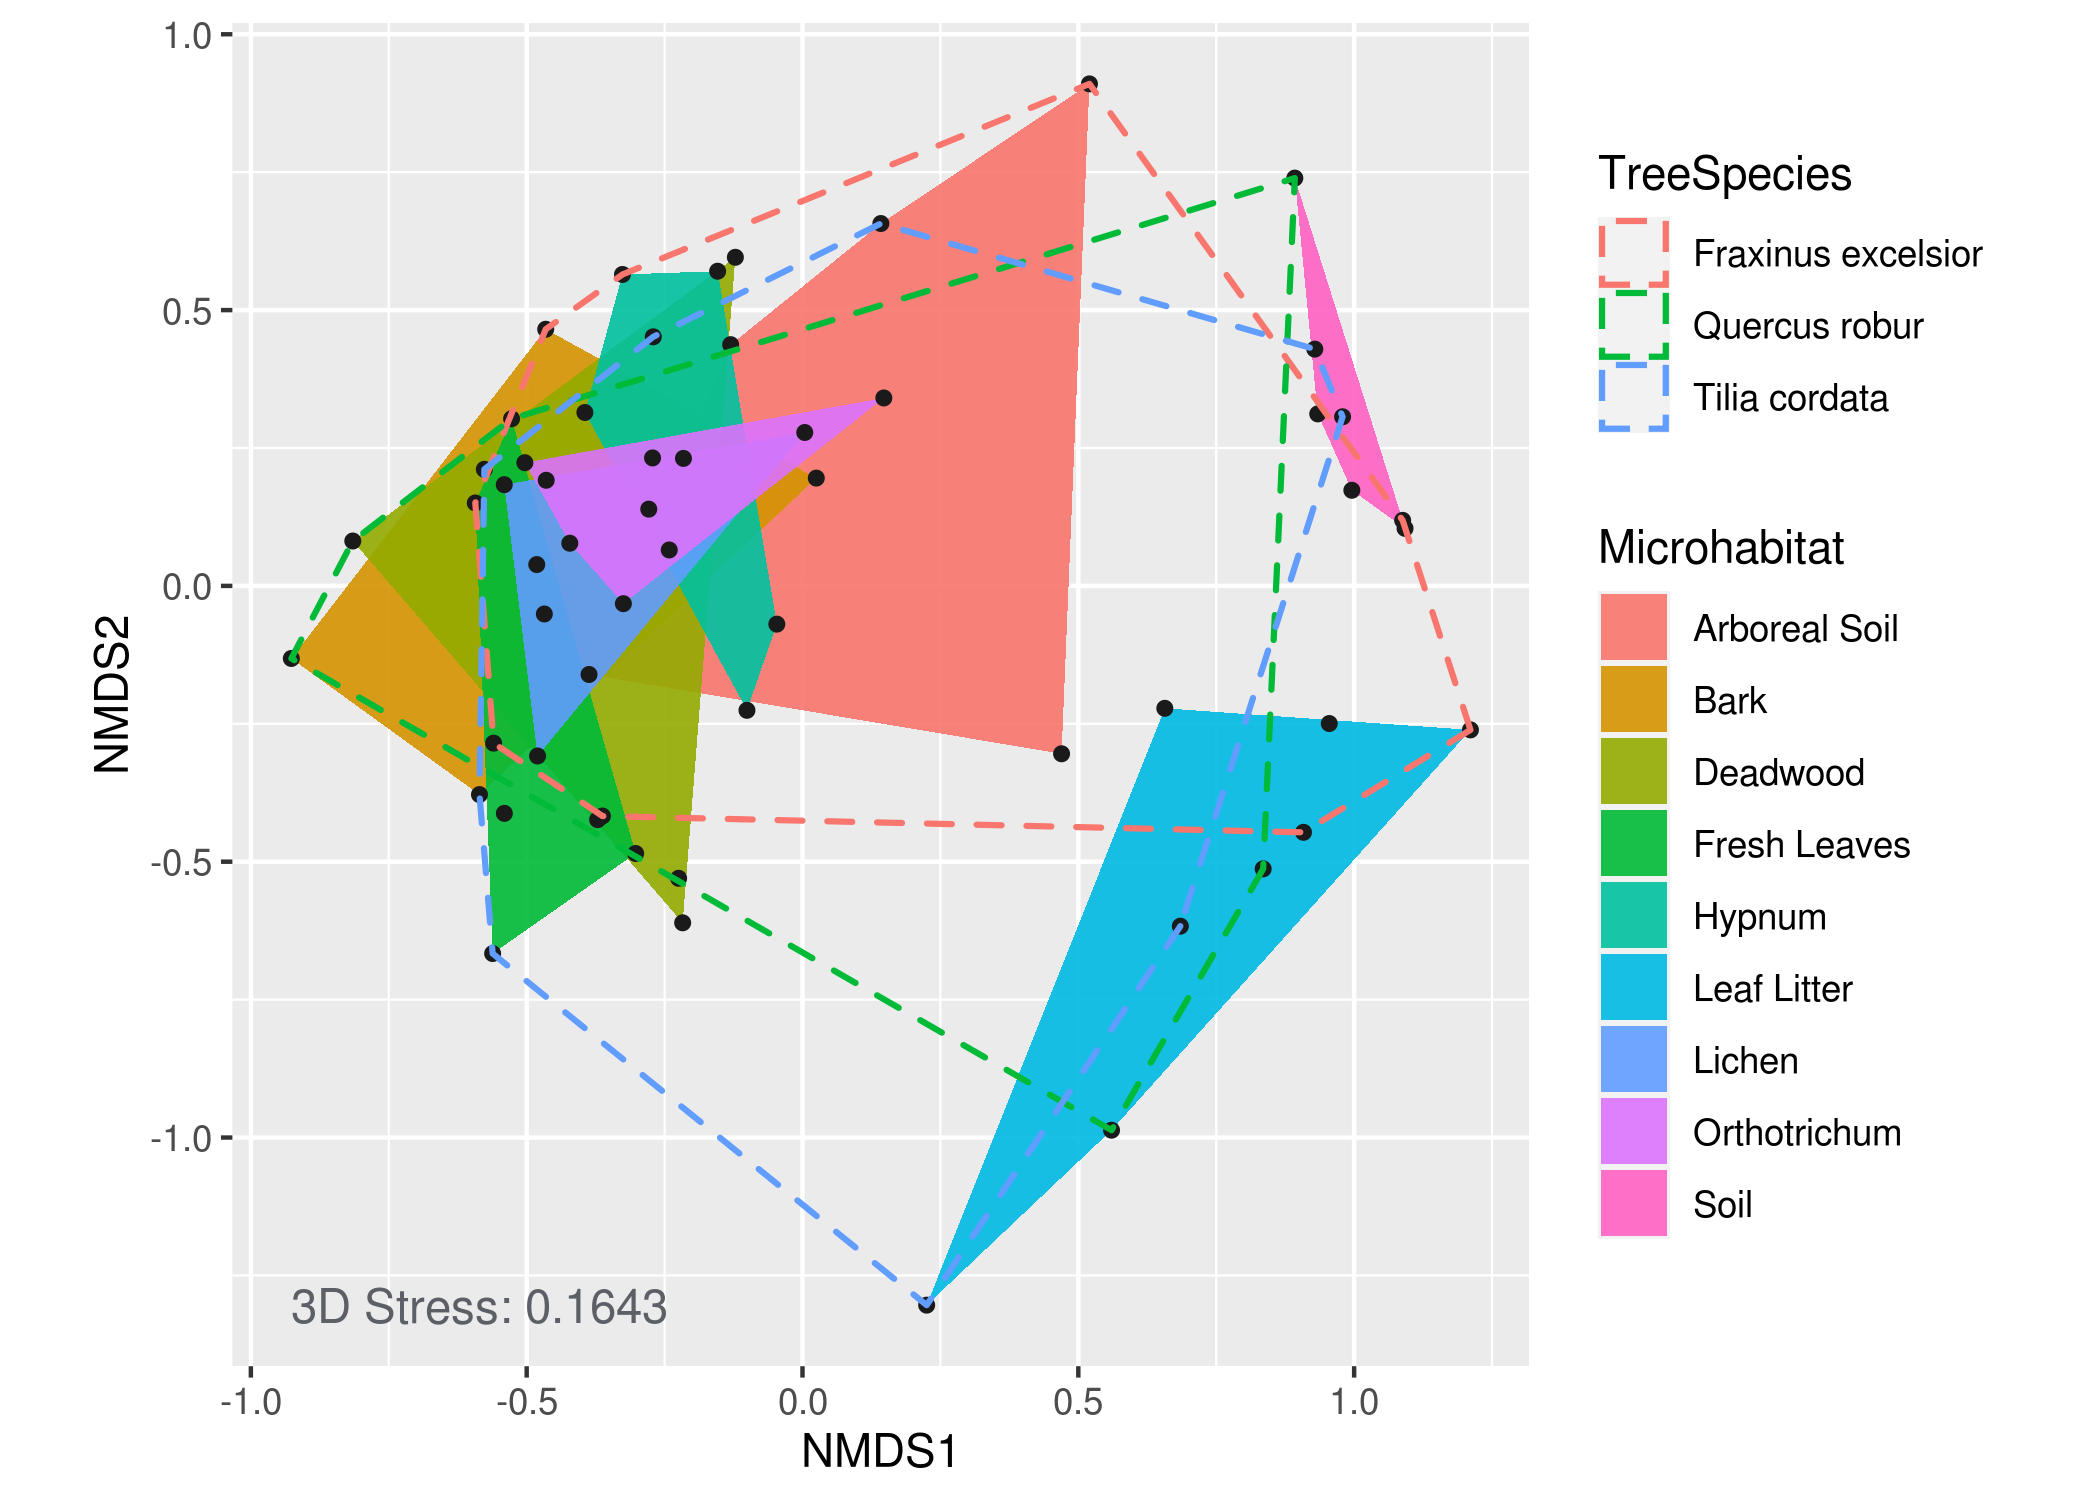
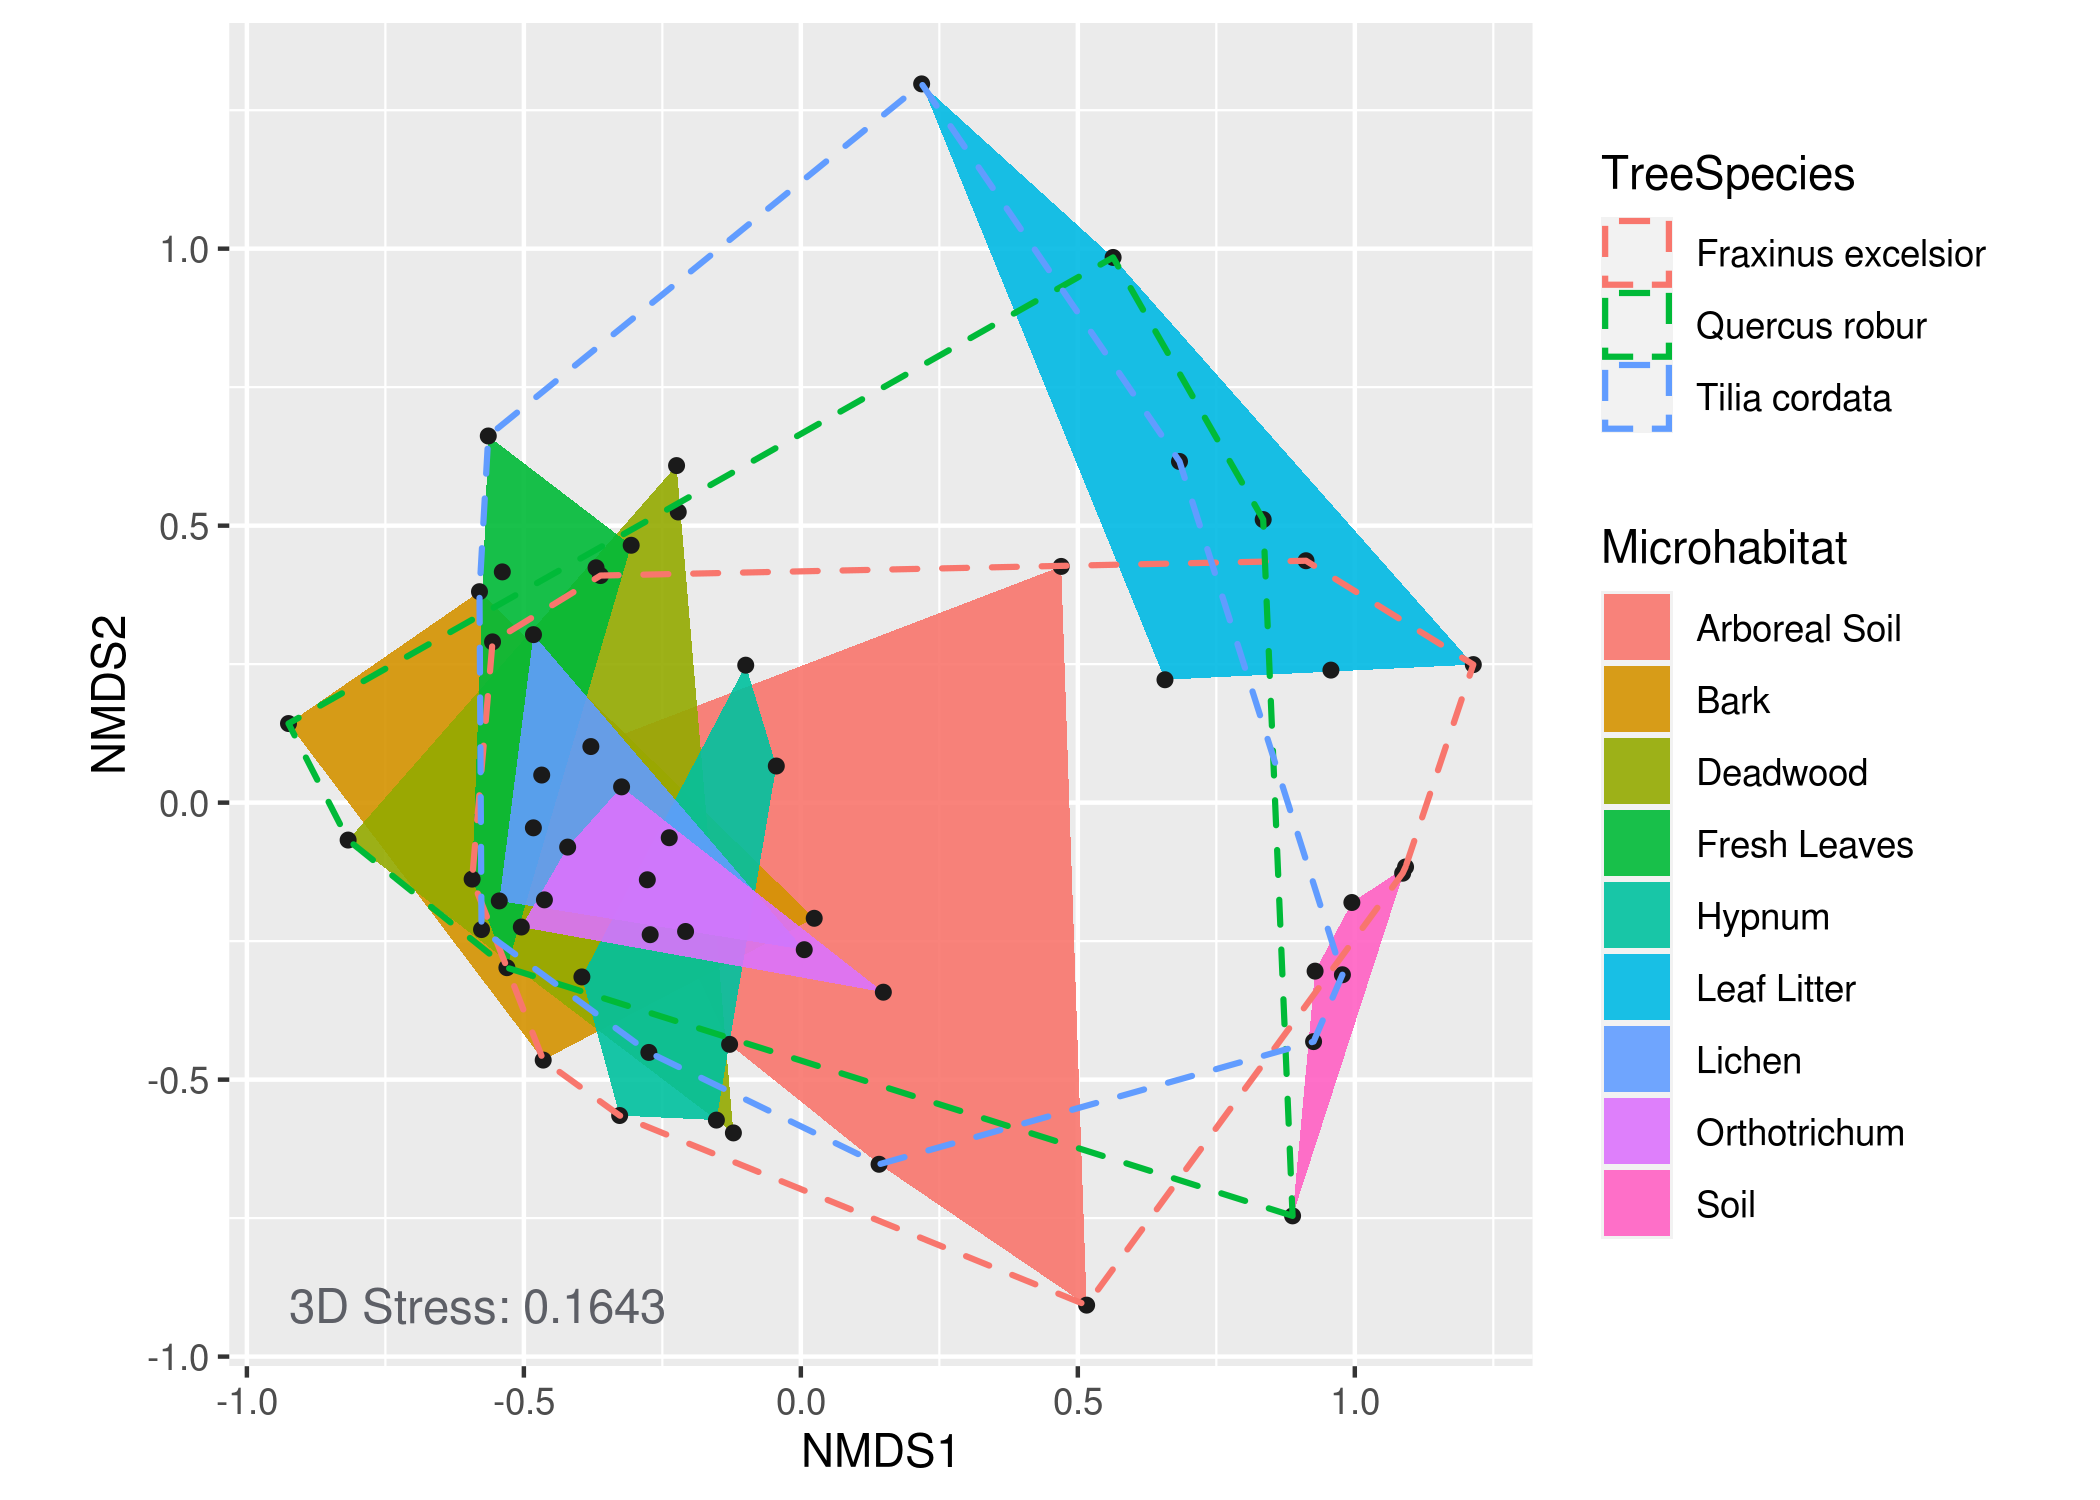
Updated Readme

diff --git a/Readme.md b/Readme.md
@@ -8,8 +8,7 @@ Multidimensional Scaling (NMDS) plots into `ggplot`.
 
 The package includes an example dataset from [Jauss et
 al. (2020)](%22https://www.frontiersin.org/articles/10.3389/fmicb.2020.592189/%22)
-- an OTU abundance table including sample metadata - and three
-functions:
+(an OTU abundance table including sample metadata) and three functions:
 
   - `get_NMDS_ordination`: The function takes the OTU table (with or
     without metadata) and performs the NMDS ordination. The resulting
@@ -39,132 +38,43 @@ look at the example data:
 library(otutableNMDS)
 data("OTU_Table")
 
-OTU_Table[1:10, 1:10]
+tibble::as_tibble(OTU_Table[1:10, 1:10])
 ```
 
-    ##      SampleID TreeID        TreeSpecies  Microhabitat Stratum
-    ## 1  K129_Bl_Fr   K129      Quercus robur  Fresh Leaves  Canopy
-    ## 2    K129_Bor   K129      Quercus robur          Bark  Canopy
-    ## 3    K129_Det   K129      Quercus robur Arboreal Soil  Canopy
-    ## 4    K129_Hyp   K129      Quercus robur        Hypnum  Canopy
-    ## 5   K129_Laub   K129      Quercus robur   Leaf Litter  Ground
-    ## 6    K129_Oth   K129      Quercus robur  Orthotrichum  Canopy
-    ## 7  K232_Bl_Fr   K232 Fraxinus excelsior  Fresh Leaves  Canopy
-    ## 8    K232_Bod   K232 Fraxinus excelsior          Soil  Ground
-    ## 9    K232_Bor   K232 Fraxinus excelsior          Bark  Canopy
-    ## 10   K232_Det   K232 Fraxinus excelsior Arboreal Soil  Canopy
-    ##    X1_Peronosporales.Peronosporaceae.Phytophthora.Phytophthora_syringae
-    ## 1                                                                     1
-    ## 2                                                                     0
-    ## 3                                                                   121
-    ## 4                                                                   382
-    ## 5                                                                 19129
-    ## 6                                                                   354
-    ## 7                                                                     0
-    ## 8                                                                 10264
-    ## 9                                                                    32
-    ## 10                                                                  348
-    ##    X2_Lagenidiales.Lagenidiales_Family_NoHit.Lagenidiales_Genus_NoHit.Lagenidiales_Species_NoHit
-    ## 1                                                                                              0
-    ## 2                                                                                              0
-    ## 3                                                                                             13
-    ## 4                                                                                              2
-    ## 5                                                                                             57
-    ## 6                                                                                              2
-    ## 7                                                                                             37
-    ## 8                                                                                              5
-    ## 9                                                                                             50
-    ## 10                                                                                             5
-    ##    X3_Peronosporales.Peronosporaceae.Hyaloperonospora.Hyaloperonospora_brassicae
-    ## 1                                                                          31210
-    ## 2                                                                            581
-    ## 3                                                                              1
-    ## 4                                                                            611
-    ## 5                                                                              2
-    ## 6                                                                            950
-    ## 7                                                                           2239
-    ## 8                                                                              9
-    ## 9                                                                            822
-    ## 10                                                                            27
-    ##    X4_Pythiales.Pythiaceae.Pythiaceae_Genus_NoHit.Pythiaceae_Species_NoHit
-    ## 1                                                                       12
-    ## 2                                                                       18
-    ## 3                                                                        0
-    ## 4                                                                        0
-    ## 5                                                                        0
-    ## 6                                                                        1
-    ## 7                                                                        5
-    ## 8                                                                       10
-    ## 9                                                                     5245
-    ## 10                                                                      55
-    ##    X5_Peronosporales.Peronosporaceae.Peronospora.Peronospora_arborescens
-    ## 1                                                                   2449
-    ## 2                                                                     31
-    ## 3                                                                      8
-    ## 4                                                                      3
-    ## 5                                                                     19
-    ## 6                                                                      1
-    ## 7                                                                   3007
-    ## 8                                                                      5
-    ## 9                                                                      3
-    ## 10                                                                     0
+    ## # A tibble: 10 x 10
+    ##    SampleID TreeID TreeSpecies Microhabitat Stratum X1_Peronosporal…
+    ##    <fct>    <fct>  <fct>       <fct>        <fct>              <dbl>
+    ##  1 K129_Bl… K129   Quercus ro… Fresh Leaves Canopy                 1
+    ##  2 K129_Bor K129   Quercus ro… Bark         Canopy                 0
+    ##  3 K129_Det K129   Quercus ro… Arboreal So… Canopy               121
+    ##  4 K129_Hyp K129   Quercus ro… Hypnum       Canopy               382
+    ##  5 K129_La… K129   Quercus ro… Leaf Litter  Ground             19129
+    ##  6 K129_Oth K129   Quercus ro… Orthotrichum Canopy               354
+    ##  7 K232_Bl… K232   Fraxinus e… Fresh Leaves Canopy                 0
+    ##  8 K232_Bod K232   Fraxinus e… Soil         Ground             10264
+    ##  9 K232_Bor K232   Fraxinus e… Bark         Canopy                32
+    ## 10 K232_Det K232   Fraxinus e… Arboreal So… Canopy               348
+    ## # … with 4 more variables:
+    ## #   X2_Lagenidiales.Lagenidiales_Family_NoHit.Lagenidiales_Genus_NoHit.Lagenidiales_Species_NoHit <dbl>,
+    ## #   X3_Peronosporales.Peronosporaceae.Hyaloperonospora.Hyaloperonospora_brassicae <dbl>,
+    ## #   X4_Pythiales.Pythiaceae.Pythiaceae_Genus_NoHit.Pythiaceae_Species_NoHit <dbl>,
+    ## #   X5_Peronosporales.Peronosporaceae.Peronospora.Peronospora_arborescens <dbl>
 
-My data has the sample metadate included in columns 1-5, after that
+My data has the sample metadata included in columns 1-5, after that
 comes the species abundance matrix. So we need to specify which columns
-and which sample(-types) to use in the `get_hull_data` function:
+and which sample(-types) to use in the `get_hull_data` function. But
+first we run the `get_NMDS_ordination` function which uses the `metaMDS`
+function from `vegan`:
 
 ``` r
 NMDS.data <- get_NMDS_ordination(OTU_Table = OTU_Table, 
                                  SampleMetadata = c(1, 5), 
+                                 logtransform = T, 
+                                 relative = T, 
                                  k = 3)
+# Note that you can specify further arguments which will be passes
+# to metaMDS(), for example "distance = 'jaccard'" etc
 ```
-
-    ## Run 0 stress 0.1653825 
-    ## Run 1 stress 0.1655399 
-    ## ... Procrustes: rmse 0.0247432  max resid 0.1282855 
-    ## Run 2 stress 0.1647894 
-    ## ... New best solution
-    ## ... Procrustes: rmse 0.03797879  max resid 0.1743042 
-    ## Run 3 stress 0.1642961 
-    ## ... New best solution
-    ## ... Procrustes: rmse 0.02186436  max resid 0.131603 
-    ## Run 4 stress 0.1642844 
-    ## ... New best solution
-    ## ... Procrustes: rmse 0.004207109  max resid 0.02215058 
-    ## Run 5 stress 0.1645661 
-    ## ... Procrustes: rmse 0.01898738  max resid 0.1300248 
-    ## Run 6 stress 0.1707196 
-    ## Run 7 stress 0.1664778 
-    ## Run 8 stress 0.1655034 
-    ## Run 9 stress 0.1642909 
-    ## ... Procrustes: rmse 0.003537814  max resid 0.0183564 
-    ## Run 10 stress 0.1647397 
-    ## ... Procrustes: rmse 0.0157706  max resid 0.1055709 
-    ## Run 11 stress 0.1642966 
-    ## ... Procrustes: rmse 0.004209604  max resid 0.02227221 
-    ## Run 12 stress 0.1669712 
-    ## Run 13 stress 0.1645506 
-    ## ... Procrustes: rmse 0.01110971  max resid 0.07406307 
-    ## Run 14 stress 0.1647292 
-    ## ... Procrustes: rmse 0.02518709  max resid 0.1320249 
-    ## Run 15 stress 0.1756115 
-    ## Run 16 stress 0.1660159 
-    ## Run 17 stress 0.1655398 
-    ## Run 18 stress 0.1643987 
-    ## ... Procrustes: rmse 0.04724787  max resid 0.2875859 
-    ## Run 19 stress 0.1645605 
-    ## ... Procrustes: rmse 0.01911693  max resid 0.1301775 
-    ## Run 20 stress 0.1661363 
-    ## Run 21 stress 0.164551 
-    ## ... Procrustes: rmse 0.01109819  max resid 0.07394219 
-    ## Run 22 stress 0.1651332 
-    ## Run 23 stress 0.1660154 
-    ## Run 24 stress 0.165436 
-    ## Run 25 stress 0.1642819 
-    ## ... New best solution
-    ## ... Procrustes: rmse 0.001675449  max resid 0.006231352 
-    ## ... Similar to previous best
-    ## *** Solution reached
 
 ``` r
 hull.data <- get_hull_data(NMDS_data = NMDS.data, 
@@ -176,13 +86,13 @@ hull.data <- get_hull_data(NMDS_data = NMDS.data,
 head(hull.data)
 ```
 
-    ##         NMDS1      NMDS2       NMDS3 site  Microhabitat
-    ## 3   0.4696426 -0.3043375  0.99142764    3 Arboreal Soil
-    ## 16 -0.3869588 -0.1605736  0.68355376   16 Arboreal Soil
-    ## 23 -0.1301914  0.4373274 -0.81448811   23 Arboreal Soil
-    ## 36  0.1420357  0.6569134  0.27956598   36 Arboreal Soil
-    ## 10  0.5201849  0.9100258  0.20705243   10 Arboreal Soil
-    ## 35 -0.5855811 -0.3783056 -0.01978837   35          Bark
+    ##         NMDS1      NMDS2      NMDS3 site  Microhabitat
+    ## 10  0.5158977 -0.9071205 -0.2233777   10 Arboreal Soil
+    ## 36  0.1411887 -0.6528387 -0.2759070   36 Arboreal Soil
+    ## 23 -0.1286047 -0.4363612  0.8141746   23 Arboreal Soil
+    ## 16 -0.3790621  0.1012418 -0.7022891   16 Arboreal Soil
+    ## 3   0.4699488  0.4264151 -0.9427250    3 Arboreal Soil
+    ## 49  0.0241093 -0.2087880  0.1625382   49          Bark
 
 The function returns the dataframe with the coordinates neccessary for
 the polygons to draw around the microhabitats.
@@ -202,8 +112,10 @@ g
 
 ![](Readme_files/figure-gfm/Plot%20NMDS-1.png)<!-- -->
 
+## Plot additional NMDS on top
+
 Let’s say we also want the hull data for the tree species, we can easily
-modify the code like this:
+modify the code like this and plot a second ordination on top:
 
 ``` r
 hull.data.TreeSpecies <- get_hull_data(NMDS_data = NMDS.data, 
